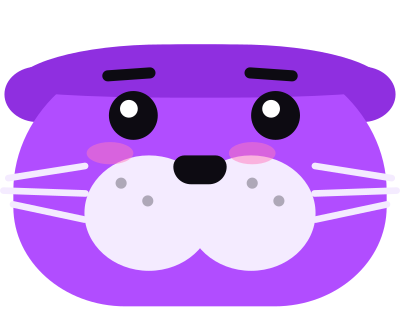
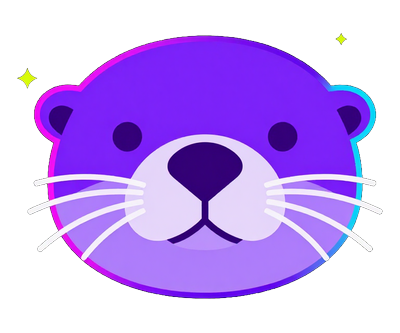
New boot, login and splash art; HoltOS name everywhere
- tools/brand/derive_splash_art.py turns ComfyUI renders into the SDDM
  login otter and glow, the Plymouth glow, watermark and lockup, the Plasma
  splash mark and lockup, and a Calamares logo (logo-icon.png, now used by
  branding.desc, show.qml and the installer shortcut). Renders: full-body
  otter v2 seed 7301 #2 (round 1 drifted toward teddy bears) and glow seed
  7201 #1. Lockups set "HoltOS" in Nunito ExtraBold next to the mark. The
  README uses the new lockup.
- Steam's system info in Game Mode said "Arch Linux": /usr/lib/os-release
  (filesystem) and /etc/lsb-release (lsb-release) still named Arch.
  holtos-system-extras' fix_os_identity and customize_airootfs.sh copy
  /etc/os-release to /usr/lib/os-release, add NoExtract for it, and write
  /etc/lsb-release from os-release. Tested in the VM: lsb_release -a and
  both files say HoltOS; a second run changes nothing.

diff --git a/archiso/airootfs/etc/calamares/branding/holtos/show.qml b/archiso/airootfs/etc/calamares/branding/holtos/show.qml
@@ -32,7 +32,7 @@ Presentation {
     Slide {
         Image {
             id: logo1
-            source: "logo-icon.svg"
+            source: "logo-icon.png"
             width: 160; height: 160
             anchors.horizontalCenter: parent.horizontalCenter
             anchors.verticalCenter: parent.verticalCenter

diff --git a/tools/brand/derive_splash_art.py b/tools/brand/derive_splash_art.py
@@ -1,0 +1,173 @@
+#!/usr/bin/env python3
+r"""Turn chosen ComfyUI renders into the HoltOS boot, login and splash images without redrawing anything: cut the dark background out, crop, fit and resize. The lockups pair the rendered mark with the name "HoltOS" set in the brand font (Nunito ExtraBold). Design comes only from ComfyUI renders (Liam, 2026-09-14). Example:
+  C:\ComfyUI\ComfyUI_windows_portable\python_embeded\python.exe tools/brand/derive_splash_art.py --otter <png> --glow <png> --font <Nunito-ExtraBold.ttf> --root archiso/airootfs --preview <png>
+"""
+
+import argparse
+import sys
+from pathlib import Path
+
+import numpy as np
+from PIL import Image, ImageDraw, ImageFont
+
+sys.path.insert(0, str(Path(__file__).resolve().parent))
+from derive_logo import load_rgb, matte, to_image  # noqa: E402
+
+MARK = "usr/share/holtos/brand/holtos-mark-1024.png"
+INK = (255, 255, 255, 255)
+
+
+def bbox_crop(img: Image.Image) -> Image.Image:
+    """Crop an RGBA image to the bounding box of alpha > 5."""
+    mask = img.getchannel("A").point(lambda a: 255 if a > 5 else 0)
+    bbox = mask.getbbox()
+    if bbox is None:
+        return img
+    return img.crop(bbox)
+
+
+def fit(img: Image.Image, width: int, height: int, pad: float = 0.04, anchor: str = "center") -> Image.Image:
+    """Bbox-crop, scale with LANCZOS to fit inside padded area, paste onto transparent canvas."""
+    cropped = bbox_crop(img)
+    max_w = width * (1 - 2 * pad)
+    max_h = height * (1 - 2 * pad)
+    ratio = min(max_w / cropped.width, max_h / cropped.height)
+    new_size = (int(cropped.width * ratio), int(cropped.height * ratio))
+    scaled = cropped.resize(new_size, Image.LANCZOS)
+    canvas = Image.new("RGBA", (width, height), (0, 0, 0, 0))
+    if anchor == "bottom":
+        x = (width - new_size[0]) // 2
+        y = height - new_size[1] - int(pad * height)
+    else:
+        x = (width - new_size[0]) // 2
+        y = (height - new_size[1]) // 2
+    canvas.paste(scaled, (x, y), scaled)
+    return canvas
+
+
+def soft_matte(path: str) -> Image.Image:
+    """Turn a glow render's light into alpha: brightness becomes opacity, colour stays pure."""
+    # matte() un-premultiplied faint edge pixels into a pale grey ring around the glow.
+    rgb = load_rgb(path)
+    a = np.clip(rgb.max(axis=2), 0, 1)
+    c = np.clip(rgb / np.maximum(a, 1e-4)[:, :, None], 0, 1)
+    return to_image(np.concatenate([c, a[:, :, None]], axis=2))
+
+
+def lockup(mark: Image.Image, font_path: str, width: int = 360, height: int = 104) -> Image.Image:
+    """Create a transparent canvas with the mark and 'HoltOS' text side by side."""
+    canvas = Image.new("RGBA", (width, height), (0, 0, 0, 0))
+    draw = ImageDraw.Draw(canvas)
+    cropped_mark = bbox_crop(mark)
+    mark_h = int(height * 0.80)
+    ratio = mark_h / cropped_mark.height
+    mark_w = int(cropped_mark.width * ratio)
+    scaled_mark = cropped_mark.resize((mark_w, mark_h), Image.LANCZOS)
+    mx = int(height * 0.08)
+    my = (height - mark_h) // 2
+    canvas.paste(scaled_mark, (mx, my), scaled_mark)
+    text_x = mx + mark_w + int(height * 0.16)
+    text = "HoltOS"
+    size = int(height * 0.52)
+    max_text_w = width - text_x - int(height * 0.08)
+    while size > 4:
+        font = ImageFont.truetype(font_path, size)
+        bbox = draw.textbbox((0, 0), text, font=font)
+        tw = bbox[2] - bbox[0]
+        if tw <= max_text_w:
+            break
+        size -= 1
+    font = ImageFont.truetype(font_path, size)
+    tbbox = draw.textbbox((text_x, 0), text, font=font)
+    ty = (height - (tbbox[3] - tbbox[1])) // 2 - tbbox[1]
+    draw.text((text_x, ty), text, fill=INK, font=font)
+    return canvas
+
+
+def save(img: Image.Image, root: Path, rel: str) -> Path:
+    """Create parent dirs, save PNG at root/rel, print info and return the path."""
+    out = root / rel
+    out.parent.mkdir(parents=True, exist_ok=True)
+    img.save(str(out), "PNG")
+    print(f"Wrote {out} {img.width}x{img.height}")
+    return out
+
+
+def preview(images: list[tuple[str, Image.Image]], path: Path) -> None:
+    """Render one row per image on a dark background with labels and save."""
+    scaled = []
+    for label, img in images:
+        if img.width > 700:
+            ratio = 700 / img.width
+            new_size = (700, int(img.height * ratio))
+            s = img.resize(new_size, Image.LANCZOS)
+        else:
+            s = img.copy()
+        scaled.append((label, s))
+    max_w = max(p[1].width for p in scaled) + 24
+    row_h = max(p[1].height for p in scaled) + 36
+    total_w = sum(p[1].width + 24 for p in scaled) - 24
+    total_h = row_h
+    canvas = Image.new("RGBA", (total_w, total_h), (0x0D, 0x0B, 0x12, 255))
+    draw = ImageDraw.Draw(canvas)
+    cx = 0
+    for label, s in scaled:
+        cy = 18
+        draw.text((cx + 6, 4), label, fill=(200, 200, 200, 255))
+        canvas.paste(s, (cx + 12, cy), s)
+        cx += s.width + 24
+    path.parent.mkdir(parents=True, exist_ok=True)
+    canvas.save(str(path), "PNG")
+
+
+def main() -> None:
+    """Parse args and derive all splash art from ComfyUI renders."""
+    parser = argparse.ArgumentParser(description="Derive HoltOS splash art.")
+    parser.add_argument("--otter", required=True)
+    parser.add_argument("--glow", required=True)
+    parser.add_argument("--font", required=True)
+    parser.add_argument("--root", required=True)
+    parser.add_argument("--preview", required=True)
+    args = parser.parse_args()
+
+    root = Path(args.root)
+    mark = Image.open(str(root / MARK)).convert("RGBA")
+    otter = to_image(matte(load_rgb(args.otter)))
+    glow = soft_matte(args.glow)
+    lock = lockup(mark, args.font)
+
+    login_otter = fit(otter, 400, 600, anchor="bottom")
+    save(login_otter, root, "usr/share/sddm/themes/holtos/otter.png")
+
+    glow_resized = glow.resize((700, 420), Image.LANCZOS)
+    save(glow_resized, root, "usr/share/sddm/themes/holtos/glow.png")
+    save(glow_resized, root, "usr/share/plymouth/themes/holtos/glow.png")
+
+    save(lock, root, "usr/share/sddm/themes/holtos/lockup.png")
+    save(lock, root, "usr/share/plymouth/themes/holtos/lockup.png")
+    save(lock, root, "usr/share/plasma/look-and-feel/org.holtos.desktop/contents/splash/images/lockup.png")
+
+    watermark = fit(mark, 400, 333)
+    save(watermark, root, "usr/share/plymouth/themes/holtos/watermark.png")
+
+    splash_mark = fit(mark, 220, 220)
+    save(splash_mark, root, "usr/share/plasma/look-and-feel/org.holtos.desktop/contents/splash/images/otter.png")
+
+    installer_logo = fit(mark, 256, 256)
+    save(installer_logo, root, "etc/calamares/branding/holtos/logo-icon.png")
+
+    preview(
+        [
+            ("login otter 400x600", login_otter),
+            ("glow 700x420", glow_resized),
+            ("lockup 360x104", lock),
+            ("boot watermark 400x333", watermark),
+            ("splash mark 220", splash_mark),
+            ("installer logo 256", installer_logo),
+        ],
+        Path(args.preview),
+    )
+
+
+if __name__ == "__main__":
+    main()

diff --git a/CHANGELOG.md b/CHANGELOG.md
@@ -18,6 +18,14 @@ Neon rebrand (next major release):
   next login; their old panels are kept as `*.before-neon-layout`.
 - GTK apps show their menus in the top bar (`appmenu-gtk-module`).
 - **Smaller title bar buttons and dock icons** for a less cluttered look.
+- **New boot, login, splash and installer art** from the new otter logo: a
+  full-body otter on the login screen, a neon glow behind the login and boot
+  screens, and the otter with the HoltOS name on the boot splash, login card
+  and Plasma splash. Generated on ComfyUI and prepared by
+  `tools/brand/derive_splash_art.py`.
+- **Fixed: Steam's system info in Game Mode called the OS "Arch Linux".**
+  Arch's `/usr/lib/os-release` and `/etc/lsb-release` now carry the HoltOS
+  name and version as well, on new installs and through the updater.
 - **Fixed: Chinese, Japanese and Korean text showed as empty boxes**, for
   example in Steam's language list in Game Mode. HoltOS now installs the Noto
   CJK fonts, and the updater adds them to existing systems.

diff --git a/README.md b/README.md
@@ -1,5 +1,5 @@
 <p align="center">
-  <img src="archiso/airootfs/etc/calamares/branding/holtos/logo-wide.svg" width="420" alt="HoltOS">
+  <img src="archiso/airootfs/usr/share/sddm/themes/holtos/lockup.png" width="360" alt="HoltOS">
 </p>
 <p align="center"><sub>MEDIA-FIRST ARCH</sub></p>
 
